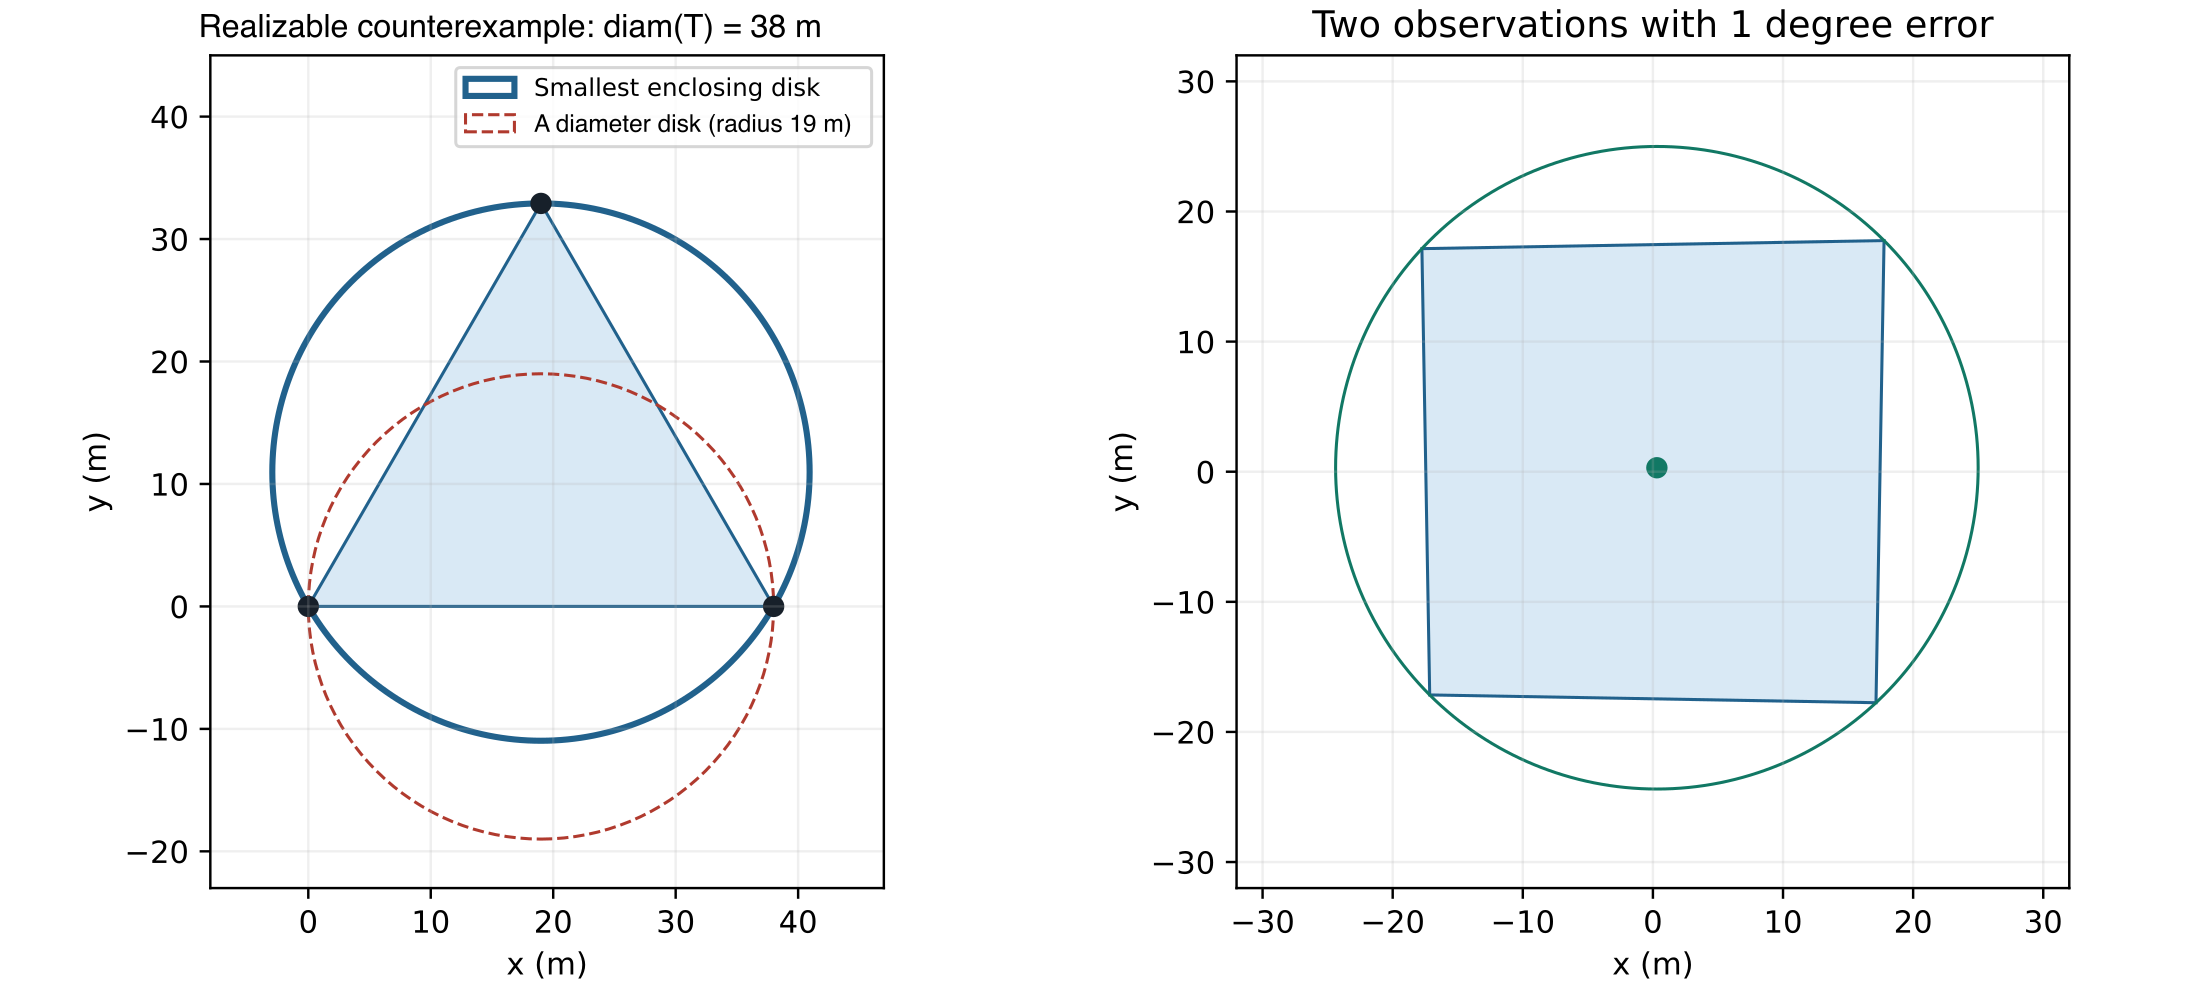
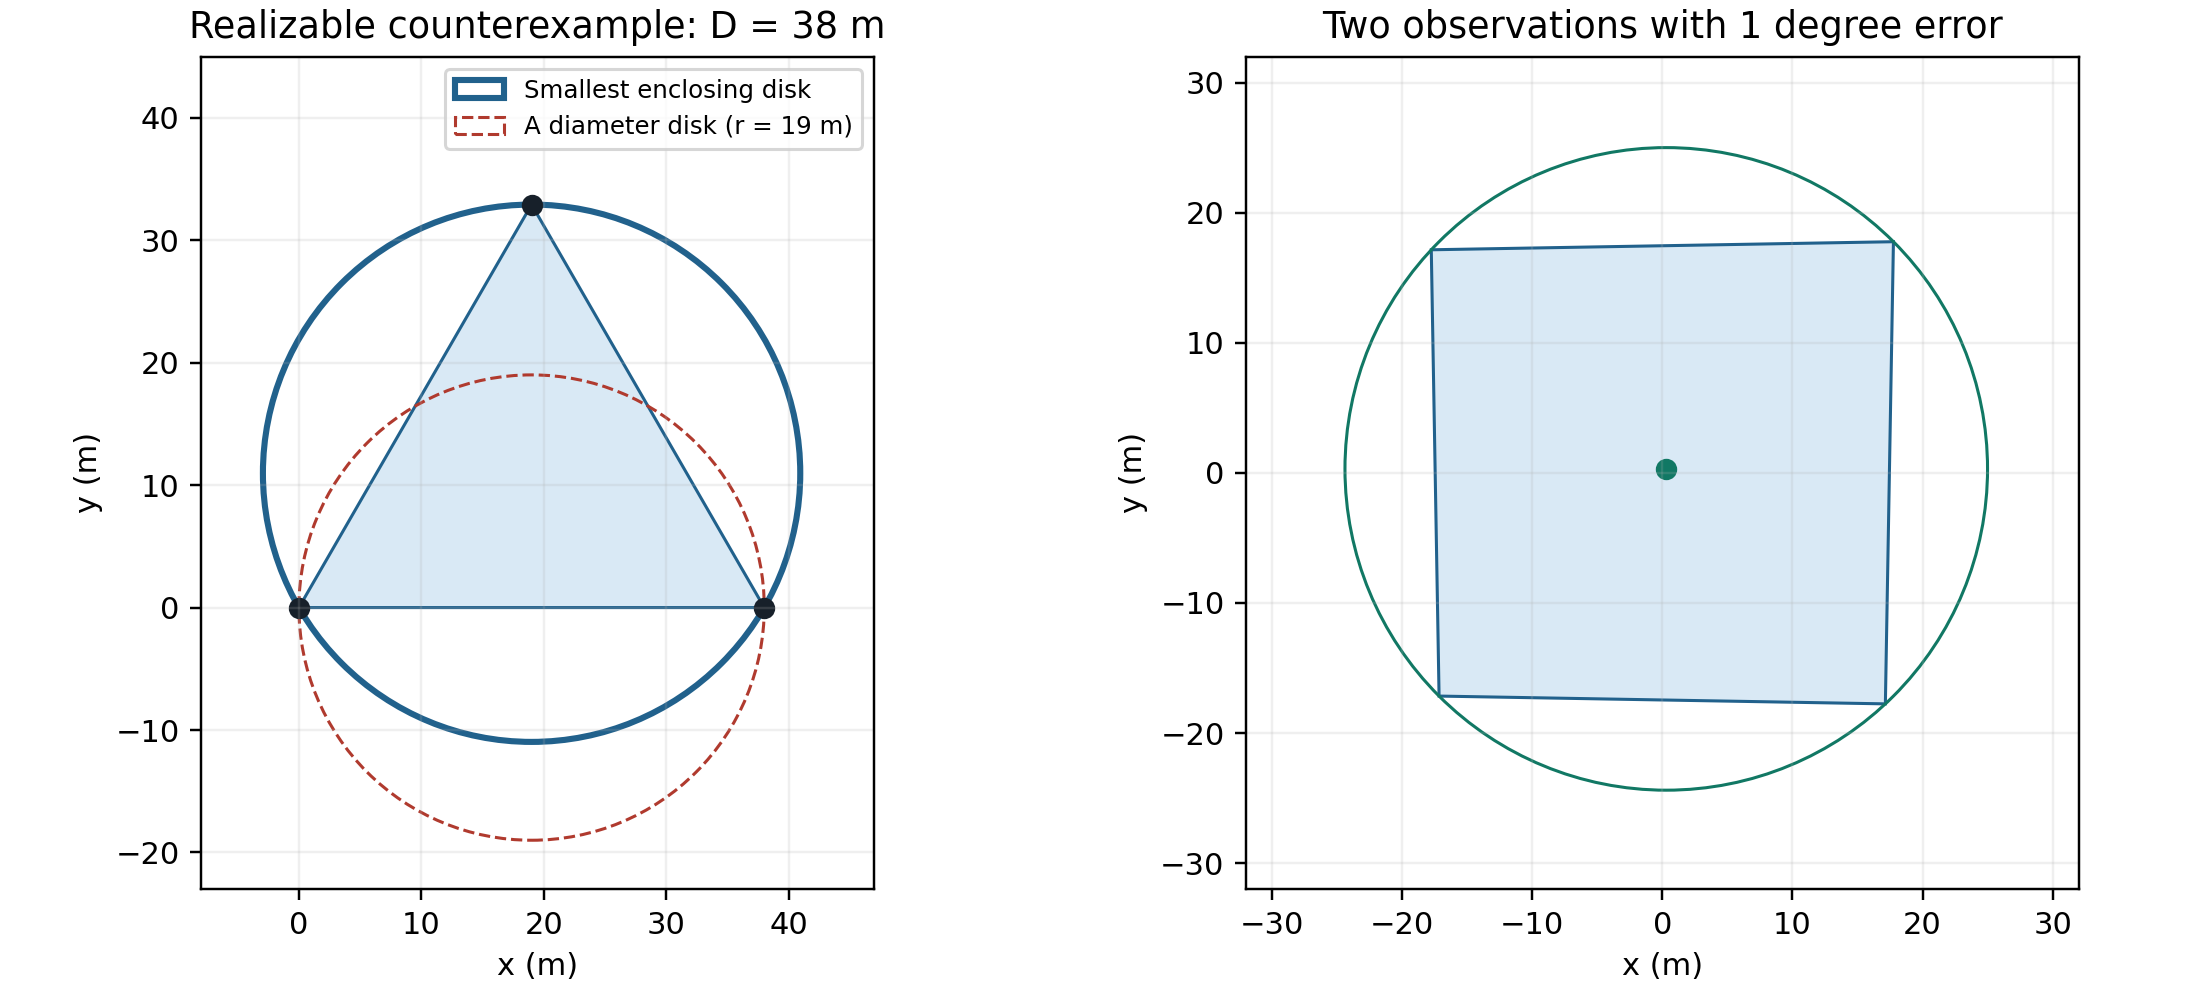
加了一张图

diff --git a/梳理/论文初稿.tex b/梳理/论文初稿.tex
@@ -266,7 +266,14 @@
   P=\bigcap_{i=1}^{n}W_i=\{x:Ax\le b\}.
   \label{eq:P}
 \end{equation}
-该表示在 \(90^\circ\)、\(270^\circ\) 以及 \(0^\circ/360^\circ\) 附近均可用，这是选择叉积形式而非斜率形式的主要原因。若真实目标落在每个 \(W_i\) 内，则真实位置 \(g\in P\)。\(P\) 是闭凸集，且当\(P\)有界，且未退化为点或线段时为一凸多边形。
+该表示在 \(90^\circ\)、\(270^\circ\) 以及 \(0^\circ/360^\circ\) 附近均可用，这是选择叉积形式而非斜率形式的主要原因。若真实目标落在每个 \(W_i\) 内，则真实位置 \(g\in P\)。\(P\) 是闭凸集，且当\(P\)有界，且未退化为点或线段时为一凸多边形。图~\ref{fig:q1-intersection-process} 给出了定位区域作为各测向角域交集的几何形态：多次观测交会得到有界凸多边形；观测不足以闭合时，交集无界，沿方向延伸至无穷。
+
+\begin{figure}[H]
+  \centering
+  \includegraphics[width=0.92\textwidth]{q1-intersection-process.png}
+  \caption{定位区域的交会几何（示意）。左：单次观测对应的前向角域；中：多次观测角域交成有界凸多边形；右：观测不足以闭合时交集无界}
+  \label{fig:q1-intersection-process}
+\end{figure}
 
 \subsection{区域状态判定与顶点算法}
 
